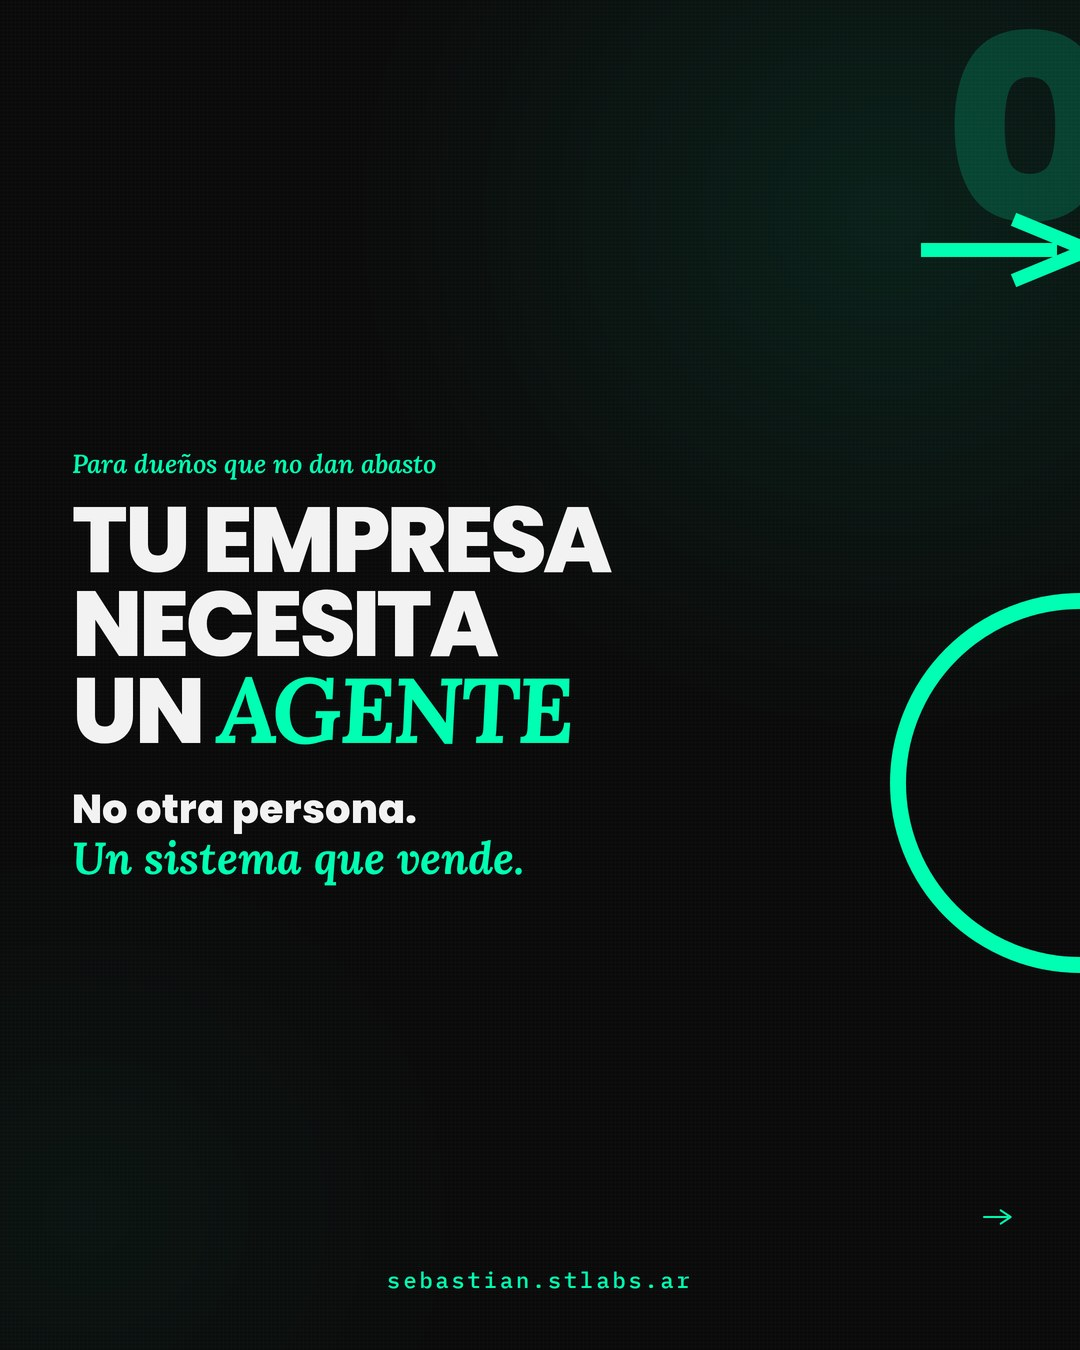
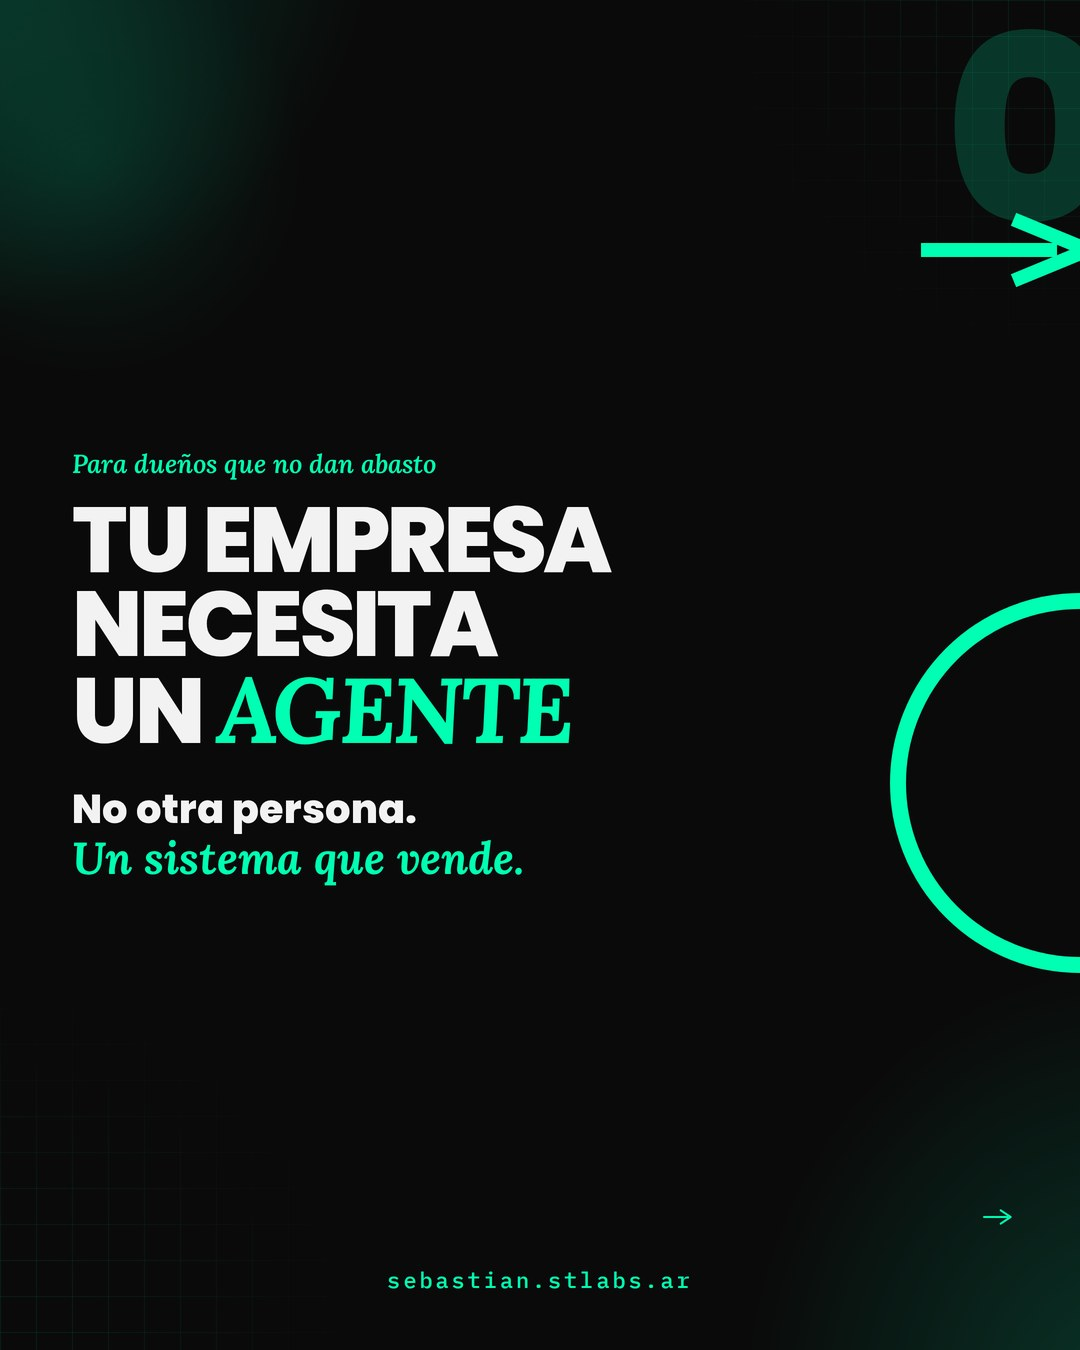
Fondo: manchas verdes y cuadrícula sutil en esquinas
Solo textura de fondo; manchas en esquinas opuestas a la
retícula. Sin cambios de copy ni layout.

Changed region(s): [[0.0, 0.0, 0.1833, 0.1867], [0.8861, 0.9022, 1.0, 1.0], [0.7944, 0.1244, 0.8556, 0.1867]]

diff --git a/builds/2026-08-16-frases-continuidad/carrusel-standalone.html b/builds/2026-08-16-frases-continuidad/carrusel-standalone.html
@@ -18,10 +18,28 @@ html, body { background:#000; }
 .tex {
   position:absolute; inset:0; z-index:0; pointer-events:none;
   background:
-    radial-gradient(ellipse 90% 70% at 82% 16%, rgba(0,255,178,.09), transparent 55%),
-    radial-gradient(ellipse 70% 55% at 8% 90%, rgba(0,255,178,.04), transparent 50%),
-    repeating-linear-gradient(0deg, transparent, transparent 3px, rgba(255,255,255,.018) 3px, rgba(255,255,255,.018) 4px),
-    repeating-linear-gradient(90deg, transparent, transparent 3px, rgba(255,255,255,.012) 3px, rgba(255,255,255,.012) 4px);
+    /* Manchas verdes — esquina sup-izq y inf-der */
+    radial-gradient(ellipse 58% 42% at -5% -5%, rgba(0,255,178,.22), transparent 68%),
+    radial-gradient(ellipse 52% 48% at 105% 105%, rgba(0,255,178,.18), transparent 70%),
+    radial-gradient(ellipse 28% 22% at 8% 12%, rgba(0,255,178,.10), transparent 72%);
+}
+.tex::before,
+.tex::after {
+  content:''; position:absolute; inset:0; pointer-events:none;
+  background-image:
+    linear-gradient(rgba(0,255,178,.075) 1px, transparent 1px),
+    linear-gradient(90deg, rgba(0,255,178,.075) 1px, transparent 1px);
+  background-size:36px 36px;
+}
+/* Cuadrícula sutil — esquina superior derecha */
+.tex::before {
+  -webkit-mask-image: radial-gradient(ellipse 50% 40% at 100% 0%, #000 15%, transparent 72%);
+  mask-image: radial-gradient(ellipse 50% 40% at 100% 0%, #000 15%, transparent 72%);
+}
+/* Cuadrícula sutil — esquina inferior izquierda */
+.tex::after {
+  -webkit-mask-image: radial-gradient(ellipse 50% 40% at 0% 100%, #000 15%, transparent 72%);
+  mask-image: radial-gradient(ellipse 50% 40% at 0% 100%, #000 15%, transparent 72%);
 }
 
 .seam-num {

diff --git a/resultados/2026-08-16-frases-continuidad/carrusel-standalone.html b/resultados/2026-08-16-frases-continuidad/carrusel-standalone.html
@@ -18,10 +18,28 @@ html, body { background:#000; }
 .tex {
   position:absolute; inset:0; z-index:0; pointer-events:none;
   background:
-    radial-gradient(ellipse 90% 70% at 82% 16%, rgba(0,255,178,.09), transparent 55%),
-    radial-gradient(ellipse 70% 55% at 8% 90%, rgba(0,255,178,.04), transparent 50%),
-    repeating-linear-gradient(0deg, transparent, transparent 3px, rgba(255,255,255,.018) 3px, rgba(255,255,255,.018) 4px),
-    repeating-linear-gradient(90deg, transparent, transparent 3px, rgba(255,255,255,.012) 3px, rgba(255,255,255,.012) 4px);
+    /* Manchas verdes — esquina sup-izq y inf-der */
+    radial-gradient(ellipse 58% 42% at -5% -5%, rgba(0,255,178,.22), transparent 68%),
+    radial-gradient(ellipse 52% 48% at 105% 105%, rgba(0,255,178,.18), transparent 70%),
+    radial-gradient(ellipse 28% 22% at 8% 12%, rgba(0,255,178,.10), transparent 72%);
+}
+.tex::before,
+.tex::after {
+  content:''; position:absolute; inset:0; pointer-events:none;
+  background-image:
+    linear-gradient(rgba(0,255,178,.075) 1px, transparent 1px),
+    linear-gradient(90deg, rgba(0,255,178,.075) 1px, transparent 1px);
+  background-size:36px 36px;
+}
+/* Cuadrícula sutil — esquina superior derecha */
+.tex::before {
+  -webkit-mask-image: radial-gradient(ellipse 50% 40% at 100% 0%, #000 15%, transparent 72%);
+  mask-image: radial-gradient(ellipse 50% 40% at 100% 0%, #000 15%, transparent 72%);
+}
+/* Cuadrícula sutil — esquina inferior izquierda */
+.tex::after {
+  -webkit-mask-image: radial-gradient(ellipse 50% 40% at 0% 100%, #000 15%, transparent 72%);
+  mask-image: radial-gradient(ellipse 50% 40% at 0% 100%, #000 15%, transparent 72%);
 }
 
 .seam-num {

diff --git a/resultados/2026-08-16-frases-continuidad/carrusel.html b/resultados/2026-08-16-frases-continuidad/carrusel.html
@@ -18,10 +18,28 @@ html, body { background:#000; }
 .tex {
   position:absolute; inset:0; z-index:0; pointer-events:none;
   background:
-    radial-gradient(ellipse 90% 70% at 82% 16%, rgba(0,255,178,.09), transparent 55%),
-    radial-gradient(ellipse 70% 55% at 8% 90%, rgba(0,255,178,.04), transparent 50%),
-    repeating-linear-gradient(0deg, transparent, transparent 3px, rgba(255,255,255,.018) 3px, rgba(255,255,255,.018) 4px),
-    repeating-linear-gradient(90deg, transparent, transparent 3px, rgba(255,255,255,.012) 3px, rgba(255,255,255,.012) 4px);
+    /* Manchas verdes — esquina sup-izq y inf-der */
+    radial-gradient(ellipse 58% 42% at -5% -5%, rgba(0,255,178,.22), transparent 68%),
+    radial-gradient(ellipse 52% 48% at 105% 105%, rgba(0,255,178,.18), transparent 70%),
+    radial-gradient(ellipse 28% 22% at 8% 12%, rgba(0,255,178,.10), transparent 72%);
+}
+.tex::before,
+.tex::after {
+  content:''; position:absolute; inset:0; pointer-events:none;
+  background-image:
+    linear-gradient(rgba(0,255,178,.075) 1px, transparent 1px),
+    linear-gradient(90deg, rgba(0,255,178,.075) 1px, transparent 1px);
+  background-size:36px 36px;
+}
+/* Cuadrícula sutil — esquina superior derecha */
+.tex::before {
+  -webkit-mask-image: radial-gradient(ellipse 50% 40% at 100% 0%, #000 15%, transparent 72%);
+  mask-image: radial-gradient(ellipse 50% 40% at 100% 0%, #000 15%, transparent 72%);
+}
+/* Cuadrícula sutil — esquina inferior izquierda */
+.tex::after {
+  -webkit-mask-image: radial-gradient(ellipse 50% 40% at 0% 100%, #000 15%, transparent 72%);
+  mask-image: radial-gradient(ellipse 50% 40% at 0% 100%, #000 15%, transparent 72%);
 }
 
 .seam-num {

diff --git a/builds/2026-08-16-frases-continuidad/generate.py b/builds/2026-08-16-frases-continuidad/generate.py
@@ -153,10 +153,28 @@ html, body {{ background:#000; }}
 .tex {{
   position:absolute; inset:0; z-index:0; pointer-events:none;
   background:
-    radial-gradient(ellipse 90% 70% at 82% 16%, rgba(0,255,178,.09), transparent 55%),
-    radial-gradient(ellipse 70% 55% at 8% 90%, rgba(0,255,178,.04), transparent 50%),
-    repeating-linear-gradient(0deg, transparent, transparent 3px, rgba(255,255,255,.018) 3px, rgba(255,255,255,.018) 4px),
-    repeating-linear-gradient(90deg, transparent, transparent 3px, rgba(255,255,255,.012) 3px, rgba(255,255,255,.012) 4px);
+    /* Manchas verdes — esquina sup-izq y inf-der */
+    radial-gradient(ellipse 58% 42% at -5% -5%, rgba(0,255,178,.22), transparent 68%),
+    radial-gradient(ellipse 52% 48% at 105% 105%, rgba(0,255,178,.18), transparent 70%),
+    radial-gradient(ellipse 28% 22% at 8% 12%, rgba(0,255,178,.10), transparent 72%);
+}}
+.tex::before,
+.tex::after {{
+  content:''; position:absolute; inset:0; pointer-events:none;
+  background-image:
+    linear-gradient(rgba(0,255,178,.075) 1px, transparent 1px),
+    linear-gradient(90deg, rgba(0,255,178,.075) 1px, transparent 1px);
+  background-size:36px 36px;
+}}
+/* Cuadrícula sutil — esquina superior derecha */
+.tex::before {{
+  -webkit-mask-image: radial-gradient(ellipse 50% 40% at 100% 0%, #000 15%, transparent 72%);
+  mask-image: radial-gradient(ellipse 50% 40% at 100% 0%, #000 15%, transparent 72%);
+}}
+/* Cuadrícula sutil — esquina inferior izquierda */
+.tex::after {{
+  -webkit-mask-image: radial-gradient(ellipse 50% 40% at 0% 100%, #000 15%, transparent 72%);
+  mask-image: radial-gradient(ellipse 50% 40% at 0% 100%, #000 15%, transparent 72%);
 }}
 
 .seam-num {{
